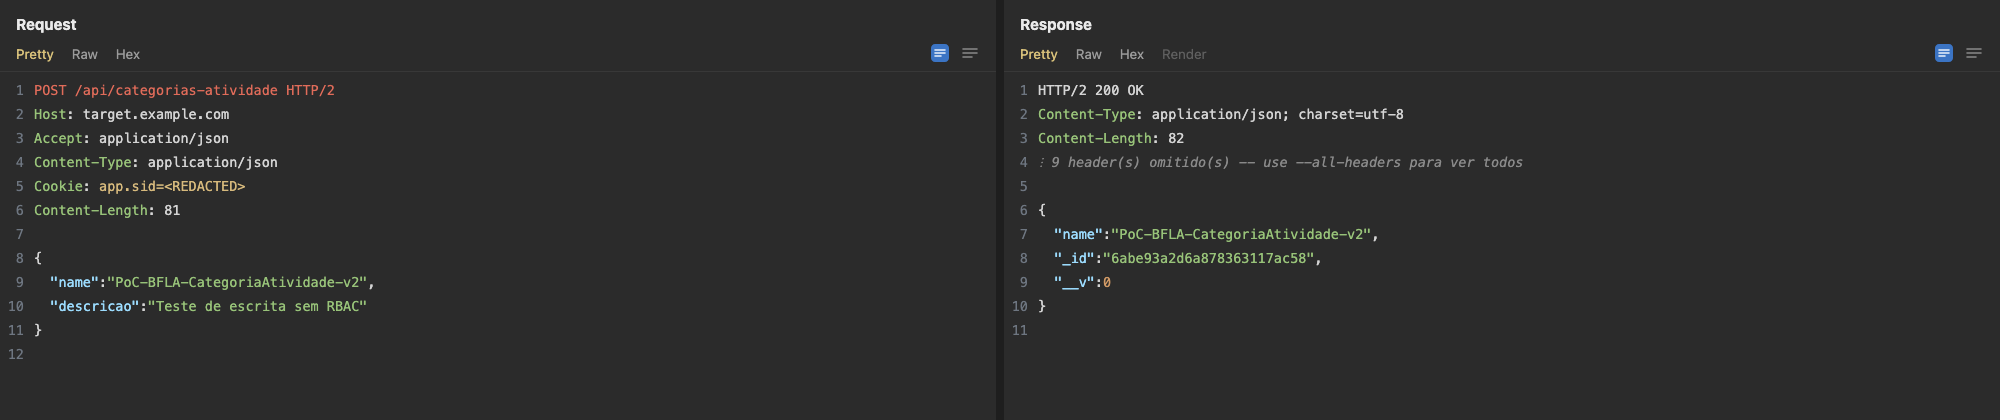
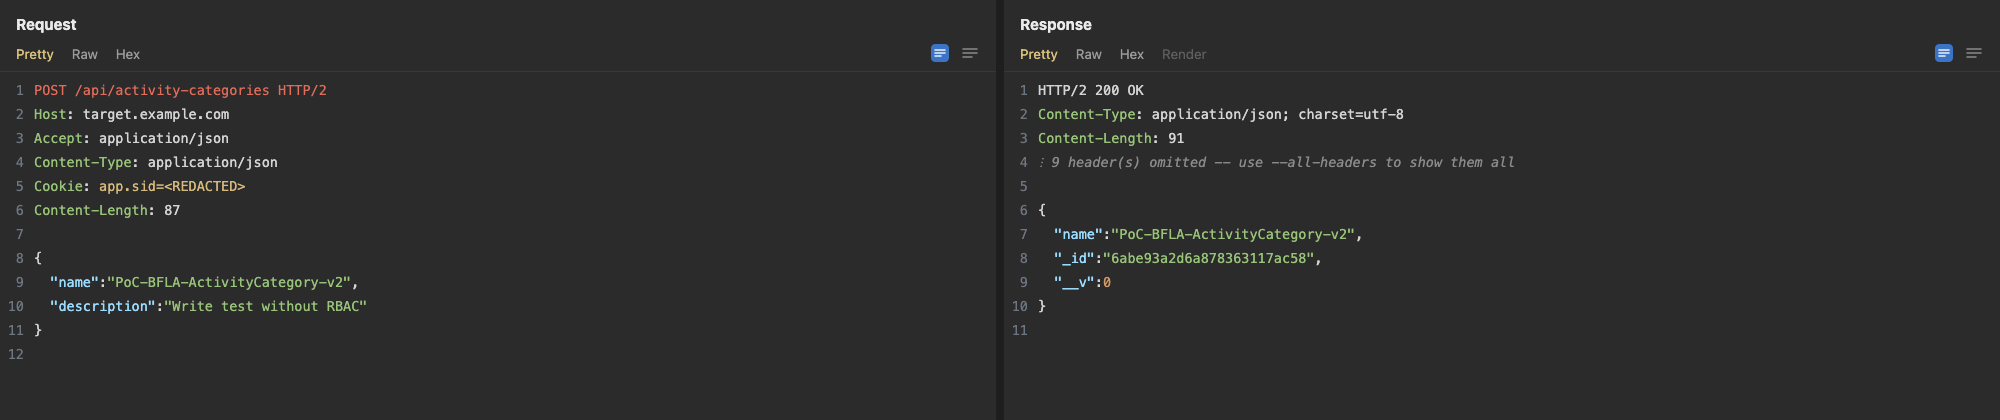
Traduz o código e as mensagens da ferramenta para inglês
A documentação já estava em 8 idiomas, mas a ferramenta ainda falava português.
Quem chegasse de fora instalava a extensão e via log em português, além de
avisos em português dentro dos próprios screenshots de evidência.

Passam a inglês os comentários, as mensagens de log da extensão, as mensagens
de erro do renderizador e, principalmente, os avisos que ficam gravados na
imagem: headers omitidos, body truncado e recorte de altura.

Os samples viraram um exemplo neutro (/api/activity-categories) e o PNG de
demonstração foi regerado. As oito traduções do README foram ajustadas para
citar a nova string de log.

Comportamento inalterado. A normalização de CRLF na redação de segredos foi
preservada e verificada com entrada \r\n: cookie, Authorization e Set-Cookie
continuam redigidos, com os nomes de cookie e o esquema Bearer intactos.

diff --git a/extension/src/main/java/com/dokaoista/evidence/RepeaterDumpExtension.java b/extension/src/main/java/com/dokaoista/evidence/RepeaterDumpExtension.java
@@ -29,17 +29,18 @@ import java.util.concurrent.atomic.AtomicInteger;
 import java.util.regex.Pattern;
 
 /**
- * Observa toda requisicao/resposta que passa pela aba Repeater do Burp e grava
- * o par request/response em texto cru dentro de ~/burp-evidence/inbox, pronto
- * para o renderizador shot.mjs transformar em PNG.
+ * Watches every request/response going through Burp's Repeater and writes the
+ * pair as raw text into ~/burp-evidence/inbox, ready for the shot.mjs renderer
+ * to turn into a PNG.
  *
- * NOTA: a Montoya API (2025.5, a mais recente publicada) nao expõe um metodo
- * para enumerar as abas abertas do Repeater nem ler o estado atual de uma aba
- * (nao existe Repeater.repeaterTabs() ou RepeaterTab). O pacote burp.api.montoya.repeater
- * so tem Repeater.sendToRepeater(...). Por isso a captura é orientada a evento
- * (HttpHandler, dispara a cada "Send" real) em vez de polling a cada 3s —
- * funcionalmente equivalente (ou melhor: zero atraso) para o objetivo de gerar
- * evidência, mas não é uma leitura passiva do estado das abas.
+ * NOTE: the Montoya API (2025.5, the latest published) exposes no method to
+ * enumerate the open Repeater tabs nor to read a tab's current state (there is
+ * no Repeater.repeaterTabs() or RepeaterTab). The burp.api.montoya.repeater
+ * package only offers Repeater.sendToRepeater(...). Capture is therefore
+ * event driven (HttpHandler, firing on every real "Send") instead of polling
+ * every 3s. For the goal of generating evidence that is functionally
+ * equivalent, or better since there is zero lag, but it is not a passive read
+ * of tab state.
  */
 public class RepeaterDumpExtension implements BurpExtension {
 
@@ -57,7 +58,7 @@ public class RepeaterDumpExtension implements BurpExtension {
         try {
             Files.createDirectories(INBOX);
         } catch (IOException e) {
-            api.logging().logToError("Nao foi possivel criar " + INBOX + ": " + e.getMessage());
+            api.logging().logToError("Could not create " + INBOX + ": " + e.getMessage());
         }
 
         api.http().registerHttpHandler(new HttpHandler() {
@@ -72,16 +73,16 @@ public class RepeaterDumpExtension implements BurpExtension {
                     try {
                         dumpAuto(responseReceived.messageId(), responseReceived.initiatingRequest(), responseReceived);
                     } catch (Exception e) {
-                        api.logging().logToError("Falha ao gravar evidencia do Repeater", e);
+                        api.logging().logToError("Failed to write Repeater evidence", e);
                     }
                 }
                 return ResponseReceivedAction.continueWith(responseReceived);
             }
         });
 
-        // Fallback manual: botao direito dentro do editor de request/response de uma aba
-        // Repeater -> "Dump Repeater tab now (evidence)". Util quando a aba ainda nao foi
-        // enviada (so grava o request) ou para forcar uma nova captura pontual.
+        // Manual fallback: right-click inside the request/response editor of a Repeater
+        // tab -> "Dump Repeater tab now (evidence)". Useful when the tab has not been
+        // sent yet (captures the request only) or to force a one-off capture.
         api.userInterface().registerContextMenuItemsProvider(new ContextMenuItemsProvider() {
             @Override
             public List<Component> provideMenuItems(ContextMenuEvent event) {
@@ -98,14 +99,14 @@ public class RepeaterDumpExtension implements BurpExtension {
                     try {
                         dumpManual(rr.request(), rr.hasResponse() ? rr.response() : null);
                     } catch (Exception ex) {
-                        api.logging().logToError("Falha no dump manual", ex);
+                        api.logging().logToError("Manual dump failed", ex);
                     }
                 });
                 return List.of(item);
             }
         });
 
-        api.logging().logToOutput("Repeater Evidence Dumper carregado. Gravando em " + INBOX);
+        api.logging().logToOutput("Repeater Evidence Dumper loaded. Writing to " + INBOX);
     }
 
     private void dumpAuto(int messageId, HttpRequest request, HttpResponse response) throws IOException {
@@ -134,6 +135,6 @@ public class RepeaterDumpExtension implements BurpExtension {
                 StandardOpenOption.CREATE, StandardOpenOption.TRUNCATE_EXISTING);
         Files.writeString(respFile, responseText, StandardCharsets.UTF_8,
                 StandardOpenOption.CREATE, StandardOpenOption.TRUNCATE_EXISTING);
-        api.logging().logToOutput("Evidencia gravada: " + name);
+        api.logging().logToOutput("Evidence written: " + name);
     }
 }

diff --git a/crop.py b/crop.py
@@ -1,12 +1,11 @@
 #!/usr/bin/env python3
 """
-Recorta um PNG gerado pelo shot.mjs para uma altura maxima, adicionando uma
-faixa de rodape avisando que a imagem foi recortada (o Firefox headless
-captura exatamente o viewport, entao um corte sem aviso perderia conteudo
-silenciosamente).
+Crops a PNG produced by shot.mjs down to a maximum height, adding a footer bar
+warning that the image was cropped (headless Firefox captures exactly the
+viewport, so an unannounced cut would silently lose content).
 
-Uso: crop.py <png_path> <max_height>
-Sai sem fazer nada se a imagem ja estiver dentro do limite.
+Usage: crop.py <png_path> <max_height>
+Does nothing if the image is already within the limit.
 """
 import sys
 from PIL import Image, ImageDraw, ImageFont
@@ -30,7 +29,7 @@ def load_font(size):
 
 def main():
     if len(sys.argv) != 3:
-        print("uso: crop.py <png_path> <max_height>", file=sys.stderr)
+        print("usage: crop.py <png_path> <max_height>", file=sys.stderr)
         sys.exit(2)
     path = sys.argv[1]
     max_height = int(sys.argv[2])
@@ -44,7 +43,7 @@ def main():
     bar_top = max_height - FOOTER_HEIGHT
     draw.rectangle([0, bar_top, img.width, max_height], fill=(30, 30, 30))
     draw.line([0, bar_top, img.width, bar_top], fill=(70, 70, 70), width=1)
-    text = "⋮ imagem recortada em {}px -- ver .png original/.html ou o .txt bruto para o conteudo completo".format(max_height)
+    text = "⋮ image cropped at {}px -- see the original .png/.html or the raw .txt for the full content".format(max_height)
     font = load_font(13)
     draw.text((12, bar_top + 7), text, fill=(138, 138, 138), font=font)
     cropped.save(path)

diff --git a/README.ru.md b/README.ru.md
@@ -73,7 +73,7 @@ Jar появится в `extension/build/libs/repeater-evidence-dumper.jar`. Mon
 ## Установка
 
 1. **Burp** → *Extensions* → *Add* → тип *Java* → выберите jar.
-   В логе должно появиться `Repeater Evidence Dumper carregado`.
+   В логе должно появиться `Repeater Evidence Dumper loaded`.
 2. Скопируйте три скрипта в рабочий каталог:
 
 ```bash
@@ -98,7 +98,7 @@ cd ~/burp-evidence && ./watch.sh &
 метода и пути:
 
 ```
-00042-post-api-usuarios.png
+00042-post-api-activity-categories.png
 ```
 
 **Вручную.** Правый клик внутри редактора запроса/ответа во вкладке Repeater и

diff --git a/README.fr.md b/README.fr.md
@@ -73,7 +73,7 @@ Vous préférez ne pas compiler ? Récupérez le jar déjà construit sur la pag
 ## Installation
 
 1. **Burp** → *Extensions* → *Add* → type *Java* → sélectionnez le jar.
-   Le journal doit afficher `Repeater Evidence Dumper carregado`.
+   Le journal doit afficher `Repeater Evidence Dumper loaded`.
 2. Copiez les trois scripts dans le répertoire d'exécution :
 
 ```bash
@@ -98,7 +98,7 @@ watcher la génère dans `~/burp-evidence/out/`, nommée d'après l'id du messag
 la méthode et le chemin :
 
 ```
-00042-post-api-usuarios.png
+00042-post-api-activity-categories.png
 ```
 
 **Manuel.** Clic droit dans l'éditeur de requête/réponse d'un onglet Repeater

diff --git a/README.es.md b/README.es.md
@@ -72,7 +72,7 @@ tiempo de ejecución y nunca se empaqueta dentro del jar.
 ## Instalación
 
 1. **Burp** → *Extensions* → *Add* → tipo *Java* → selecciona el jar.
-   El log debe mostrar `Repeater Evidence Dumper carregado`.
+   El log debe mostrar `Repeater Evidence Dumper loaded`.
 2. Copia los tres scripts al directorio de ejecución:
 
 ```bash
@@ -97,7 +97,7 @@ renderiza en `~/burp-evidence/out/`, con el nombre formado por el id del
 mensaje, el método y la ruta:
 
 ```
-00042-post-api-usuarios.png
+00042-post-api-activity-categories.png
 ```
 
 **Manual.** Clic derecho dentro del editor de petición/respuesta de una pestaña

diff --git a/README.md b/README.md
@@ -71,7 +71,7 @@ Prefer not to build? Grab the prebuilt jar from the
 ## Installation
 
 1. **Burp** → *Extensions* → *Add* → type *Java* → pick the jar.
-   The log should print `Repeater Evidence Dumper carregado`.
+   The log should print `Repeater Evidence Dumper loaded`.
 2. Copy the three scripts into the runtime directory:
 
 ```bash
@@ -95,7 +95,7 @@ cd ~/burp-evidence && ./watch.sh &
 it into `~/burp-evidence/out/`, named after the message id, method, and path:
 
 ```
-00042-post-api-usuarios.png
+00042-post-api-activity-categories.png
 ```
 
 **Manual.** Right-click inside the request/response editor of a Repeater tab and

diff --git a/README.de.md b/README.de.md
@@ -73,7 +73,7 @@ Lieber nicht selbst bauen? Hol dir das fertige Jar von der Seite
 ## Installation
 
 1. **Burp** → *Extensions* → *Add* → Typ *Java* → das Jar auswählen.
-   Im Log sollte `Repeater Evidence Dumper carregado` erscheinen.
+   Im Log sollte `Repeater Evidence Dumper loaded` erscheinen.
 2. Die drei Skripte ins Laufzeitverzeichnis kopieren:
 
 ```bash
@@ -98,7 +98,7 @@ rendert es nach `~/burp-evidence/out/`, benannt nach Message-ID, Methode und
 Pfad:
 
 ```
-00042-post-api-usuarios.png
+00042-post-api-activity-categories.png
 ```
 
 **Manuell.** Rechtsklick im Request/Response-Editor eines Repeater-Tabs und dann

diff --git a/README.pt-BR.md b/README.pt-BR.md
@@ -71,7 +71,7 @@ Prefere não compilar? Pegue o jar pronto na página de
 ## Instalação
 
 1. **Burp** → *Extensions* → *Add* → tipo *Java* → selecione o jar.
-   O log deve mostrar `Repeater Evidence Dumper carregado`.
+   O log deve mostrar `Repeater Evidence Dumper loaded`.
 2. Copie os três scripts para o diretório de runtime:
 
 ```bash
@@ -94,7 +94,7 @@ cd ~/burp-evidence && ./watch.sh &
 `~/burp-evidence/out/`, nomeado pelo id da mensagem, método e path:
 
 ```
-00042-post-api-usuarios.png
+00042-post-api-activity-categories.png
 ```
 
 **Manual.** Botão direito dentro do editor de request/response de uma aba do

diff --git a/README.zh-CN.md b/README.zh-CN.md
@@ -63,7 +63,7 @@ cd extension
 ## 安装
 
 1. **Burp** → *Extensions* → *Add* → 类型选 *Java* → 选择该 jar。
-   日志里应当出现 `Repeater Evidence Dumper carregado`。
+   日志里应当出现 `Repeater Evidence Dumper loaded`。
 2. 把三个脚本复制到运行目录：
 
 ```bash
@@ -86,7 +86,7 @@ cd ~/burp-evidence && ./watch.sh &
 `~/burp-evidence/out/`，文件名由消息 id、方法和路径组成：
 
 ```
-00042-post-api-usuarios.png
+00042-post-api-activity-categories.png
 ```
 
 **手动。** 在 Repeater 标签页的请求/响应编辑器里点右键，选择
